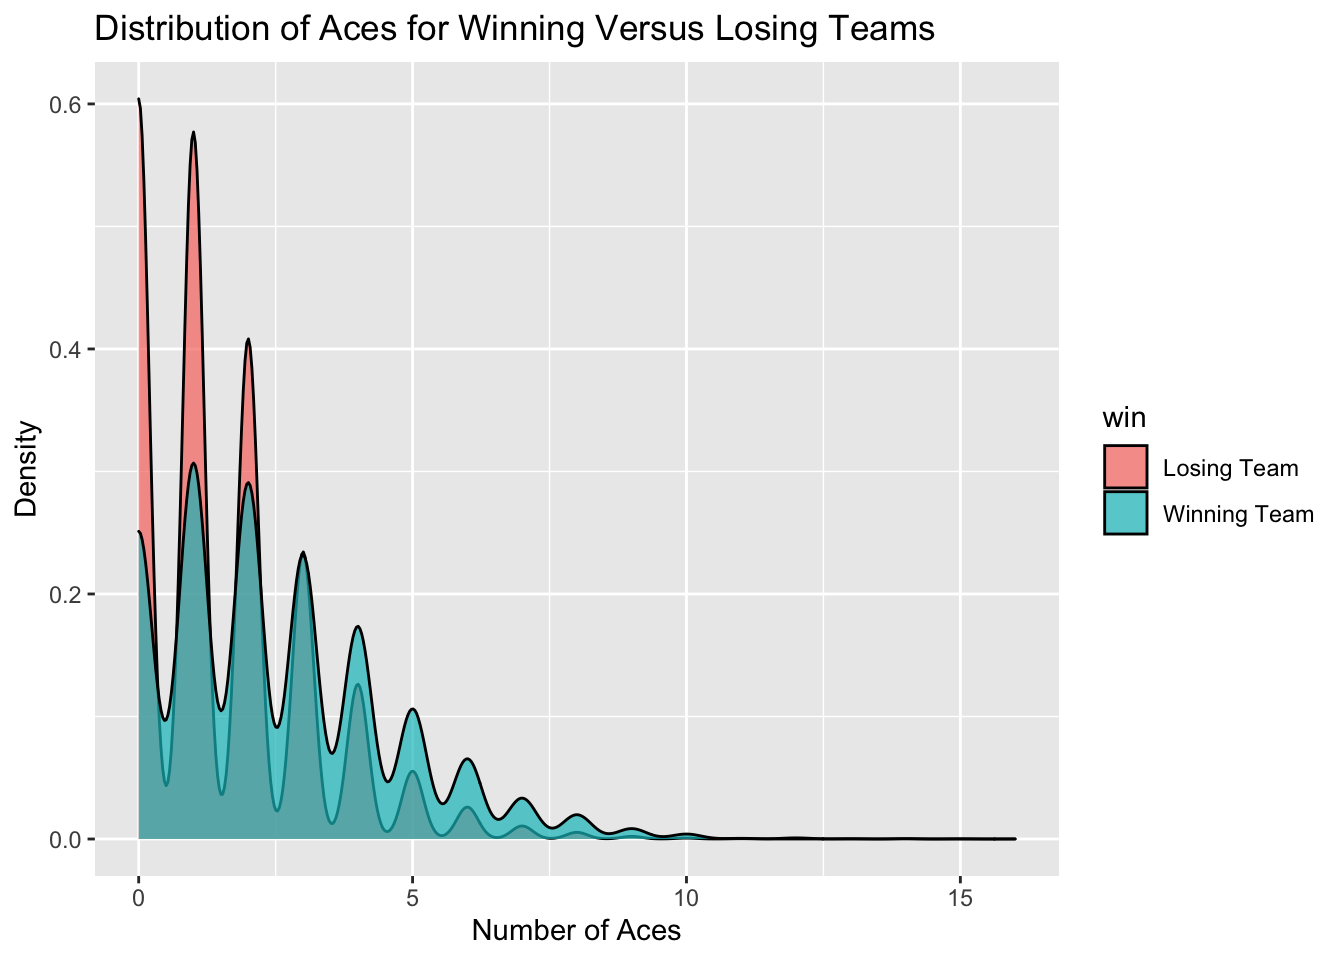
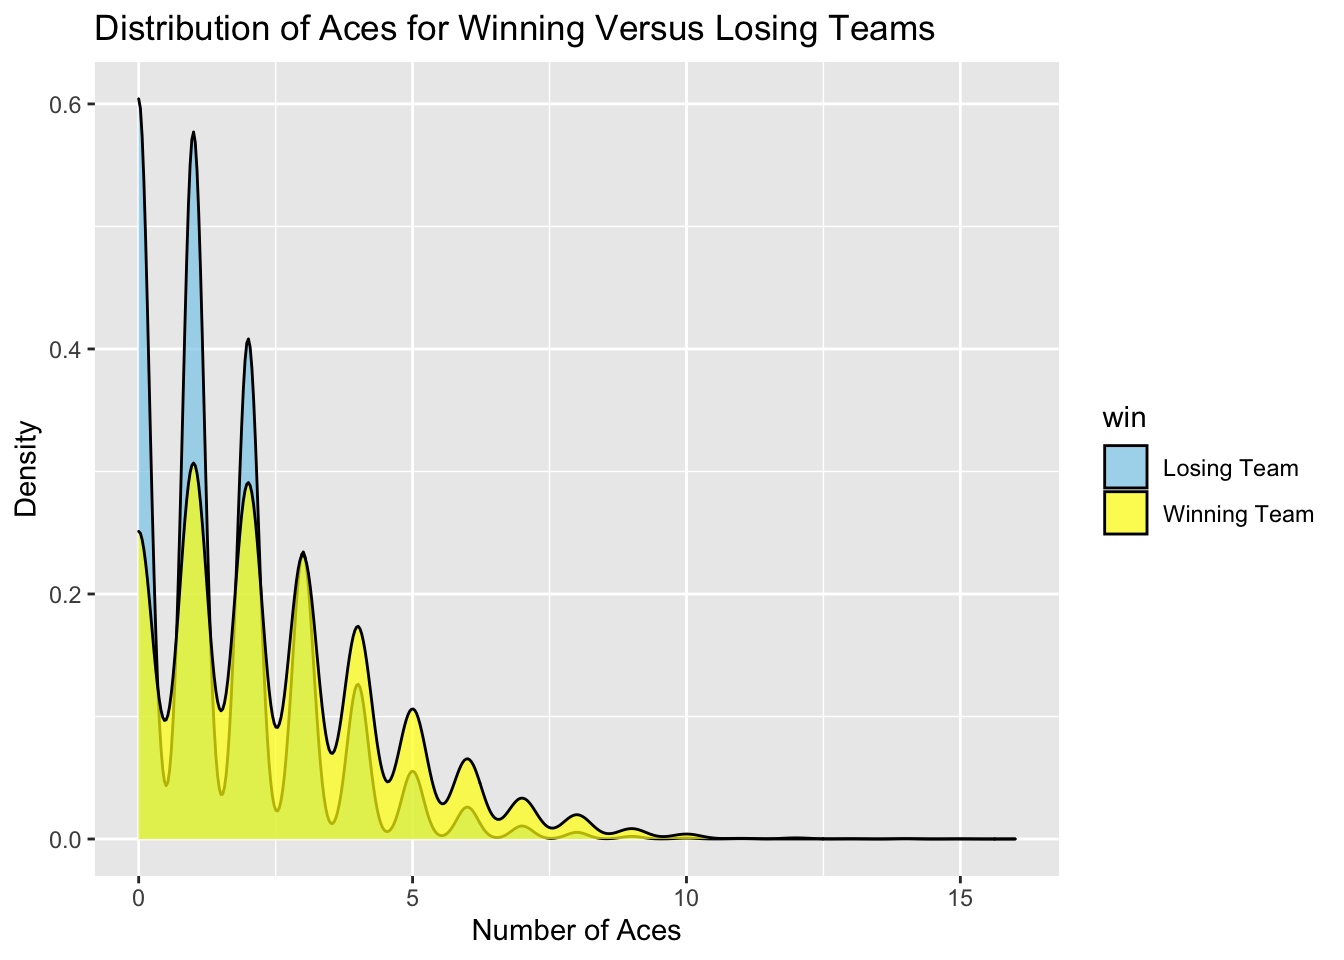
fixed some typos and made the colors pretty

Changed region(s): [[0.0938, 0.1875, 0.5, 0.875], [0.8125, 0.4688, 0.875, 0.5625]]

diff --git a/public/2020/05/18/beach-volleyball/index.html b/public/2020/05/18/beach-volleyball/index.html
@@ -55,7 +55,7 @@
 
   <article class="article">
     
-    <span class="article-duration">5 min read</span>
+    <span class="article-duration">6 min read</span>
     
 
     <h1 class="article-title">Beach Volleyball</h1>
@@ -76,7 +76,7 @@
 <div id="kills" class="section level2">
 <h2>Kills</h2>
 <p>In beach volleyball, a kill is any play that results in a legal point being scored <a href="#fn4" class="footnote-ref" id="fnref4"><sup>4</sup></a>.</p>
-<p>The distribution of kills for winning and losing teams are roughly the same shape, but the distribution for winning teams is noticably shifted to the right of the distribution for losing teams. This makes sense because in order for a team to win, they must score more points than the other team, thus winning teams would have more overall kills than losing teams.</p>
+<p>Clearly, the entire distribution of kills for winning teams is noticably shifted to the right compared to the distribution for losing teams, which makes sense because each winning team would need to have more kills than their opposing team in order to win the game. It is also notable that the curve of the distribution for the winning teams is more narrow (appearing to have a smaller standard error than the distribution for losing teams), indicating that winning teams score a high number of kills (around median of approximately 30) fairly consistantly, whereas the number of kills the losing team scores is more variable in general.</p>
 <p><img src="/post/2020-05-18-beach-volleyball_files/figure-html/unnamed-chunk-3-1.png" width="672" /></p>
 </div>
 <div id="attacks" class="section level2">

diff --git a/content/post/2020-05-18-beach-volleyball.html b/content/post/2020-05-18-beach-volleyball.html
@@ -18,7 +18,7 @@ draft: true
 <div id="kills" class="section level2">
 <h2>Kills</h2>
 <p>In beach volleyball, a kill is any play that results in a legal point being scored <a href="#fn4" class="footnote-ref" id="fnref4"><sup>4</sup></a>.</p>
-<p>The distribution of kills for winning and losing teams are roughly the same shape, but the distribution for winning teams is noticably shifted to the right of the distribution for losing teams. This makes sense because in order for a team to win, they must score more points than the other team, thus winning teams would have more overall kills than losing teams.</p>
+<p>Clearly, the entire distribution of kills for winning teams is noticably shifted to the right compared to the distribution for losing teams, which makes sense because each winning team would need to have more kills than their opposing team in order to win the game. It is also notable that the curve of the distribution for the winning teams is more narrow (appearing to have a smaller standard error than the distribution for losing teams), indicating that winning teams score a high number of kills (around median of approximately 30) fairly consistantly, whereas the number of kills the losing team scores is more variable in general.</p>
 <p><img src="/post/2020-05-18-beach-volleyball_files/figure-html/unnamed-chunk-3-1.png" width="672" /></p>
 </div>
 <div id="attacks" class="section level2">
